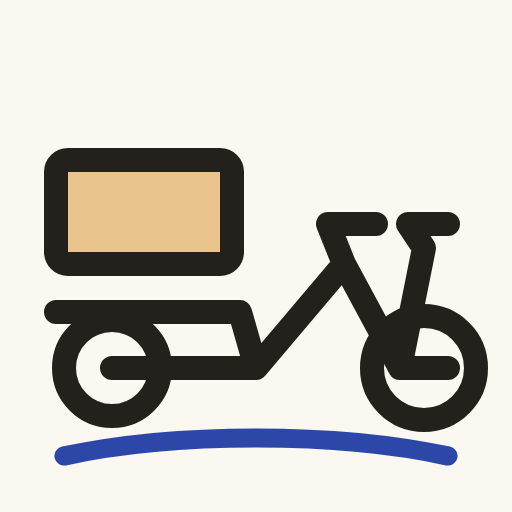
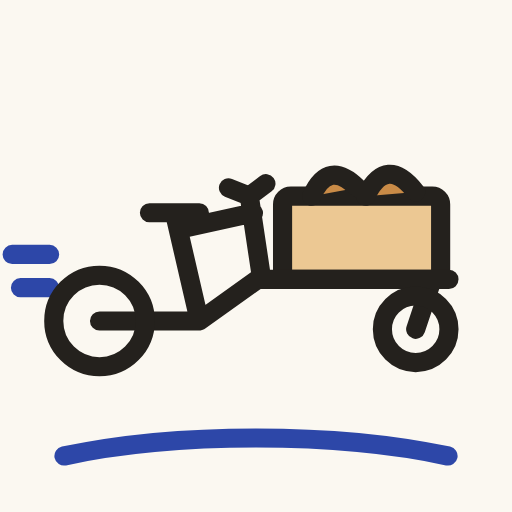
Lastenrad mit Korb vorne
Icon und Zeichnung zeigen jetzt ein Long-John-Lastenrad, das nach rechts
fährt: Hinterrad, Sattel, Lenker, Korb mit Gebäck, kleines Vorderrad.

Claude-Session: https://claude.ai/code/session_01WstQYbY7UvSe7fDibYps7G

Changed region(s): [[0.0, 0.2812, 0.9688, 0.8438]]

diff --git a/src/components/Radl.tsx b/src/components/Radl.tsx
@@ -1,13 +1,23 @@
-/** Kleines Lastenrad als Tuschezeichnung. */
+/**
+ * Lastenrad (Long John) als Tuschezeichnung, fährt nach rechts:
+ * Hinterrad – Sattel – Lenker – Korb mit Gebäck – kleines Vorderrad.
+ */
+const RADL_PFADE = (
+  <>
+    <path className="fahrtstriche" d="M1 40h9M3 48h7" stroke="var(--kuli)" />
+    <rect x="66" y="26" width="38" height="20" rx="2" fill="var(--kruste-hell)" />
+    <path d="M73 26q4-9 11-2M86 26q5-10 12-1" fill="var(--kruste)" />
+    <path d="M22 56h24l14-10h46M102 46l-4 12M46 56l-6-26M34 30h12M41 34l18-4M61 46l-3-20M53 24l5 2 4-3" />
+    <g className="rad-dreh"><circle cx="22" cy="56" r="11" /><path d="M22 45v22M11 56h22" /></g>
+    <g className="rad-dreh"><circle cx="98" cy="58" r="8" /><path d="M98 50v16M90 58h16" /></g>
+  </>
+)
+
 export function Radl({ className, fahrend = false }: { className?: string; fahrend?: boolean }) {
   return (
     <svg viewBox="0 0 120 70" className={`radl ${fahrend ? 'fahrend' : ''} ${className ?? ''}`} aria-hidden style={{ filter: 'url(#krakel)' }}>
       <g fill="none" stroke="var(--tusche)" strokeWidth="2.4" strokeLinecap="round" strokeLinejoin="round">
-        <rect x="8" y="22" width="40" height="22" rx="2" fill="var(--kruste-hell)" />
-        <path d="M14 22q4-8 10-2M28 22q5-9 11-1" />
-        <path d="M22 56h30l20-22 12 22h10M52 56l-4-12H8M72 34l-3-8h9M84 56l5-26-4-4h8" />
-        <g className="rad-dreh"><circle cx="22" cy="56" r="10" /><path d="M22 46v20M12 56h20" /></g>
-        <g className="rad-dreh"><circle cx="94" cy="56" r="11" /><path d="M94 45v22M83 56h22" /></g>
+        {RADL_PFADE}
       </g>
     </svg>
   )

diff --git a/src/styles.css b/src/styles.css
@@ -269,3 +269,7 @@ a { color: inherit; }
 @media (prefers-reduced-motion: reduce) {
   *, *::before, *::after { animation: none !important; transition: none !important; scroll-behavior: auto !important; }
 }
+
+.radl .fahrtstriche { opacity: .0; transition: opacity .3s; }
+.radl.fahrend .fahrtstriche { opacity: .8; animation: fahrtwind .6s ease-in-out infinite alternate; }
+@keyframes fahrtwind { to { transform: translateX(-3px); } }
